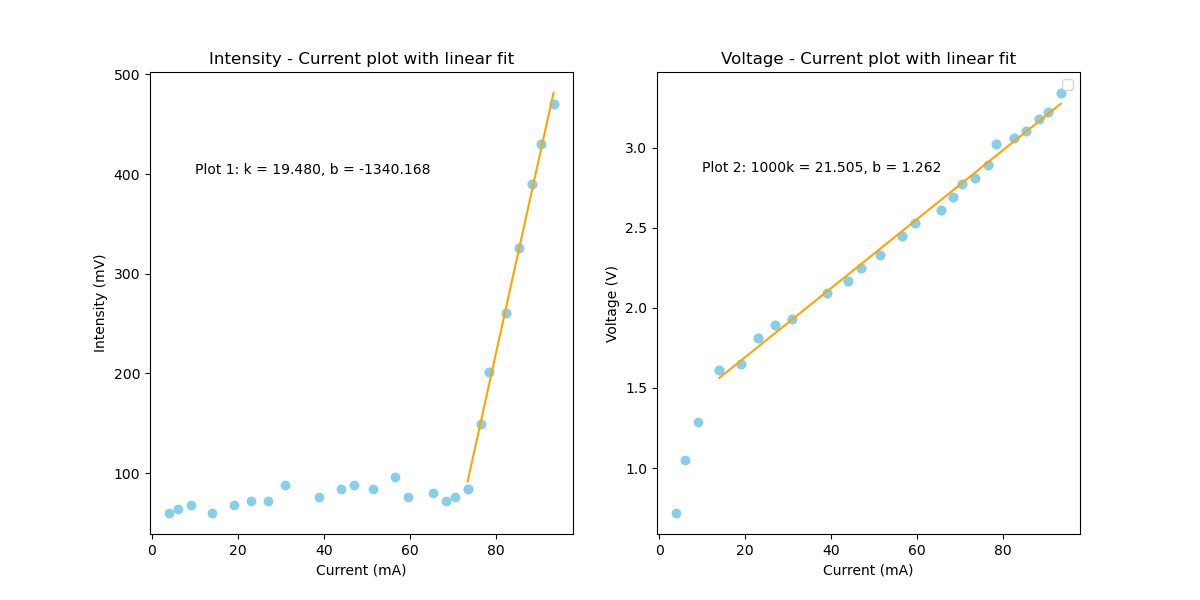
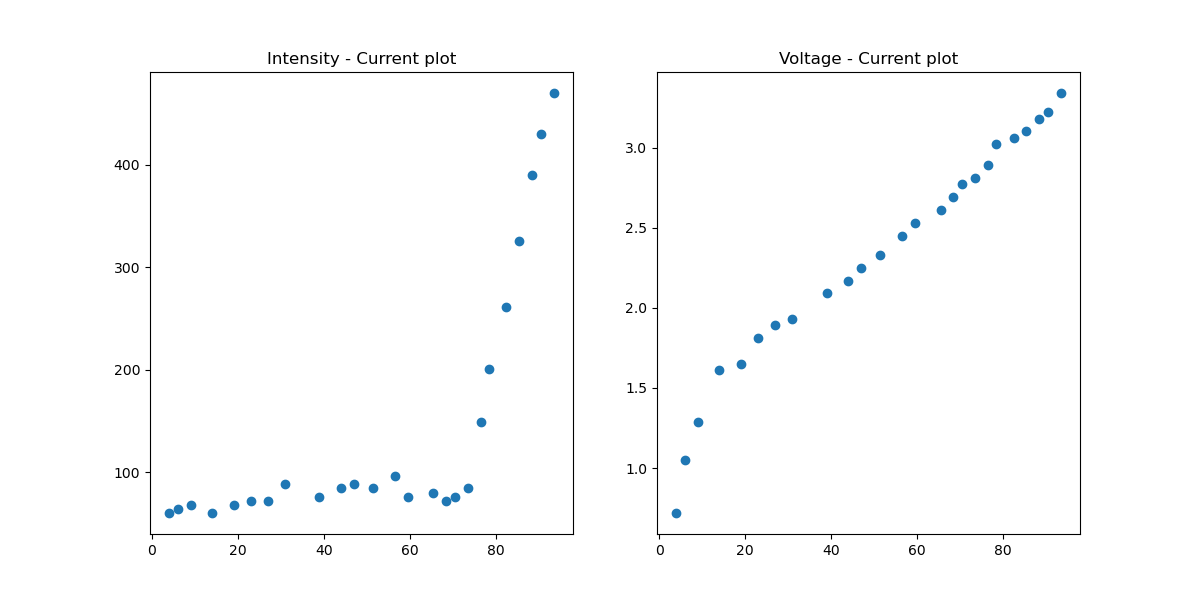
cnm

diff --git a/3B6_lab/3B6_yj375.tex b/3B6_lab/3B6_yj375.tex
@@ -102,7 +102,8 @@ from the equivalent circuit of the laser diode, as shown in Figure \ref{fig:eqcc
 \end{figure}
 
 There is a non-negligible stray series resistance in the laser diode,
-which contributes to the increase in voltage across the laser diode as the current increases.
+which contributes to the linear
+increase in voltage across the laser diode as the current increases.
 
 The relation could be expressed as:
 \begin{equation*}
@@ -114,7 +115,8 @@ respectively. $V_{th}$ is the threshold voltage, and $R_s$ is the stray series r
 
 By the linear fit of the V-I curve, 
 we can determine the threshold voltage and the stray series resistance.
-$V_{th} \approx 1.262 V$, and $R_s \approx 21.505 \Omega$.
+$V_{th} \approx 1.28 V$, and $R_s \approx 21.145 \Omega$, whose error analysis 
+will be carried out later.
 
 From the circuit diagram given, the stray series resistance is 26 $\Omega$,
 which is close to the value obtained from the linear fit, with an error of 
@@ -128,7 +130,7 @@ wavelength of the laser diode $\lambda_0$ by the following equation:
     \lambda_0 = \frac{hc}{eV_{th}}
 \end{equation*}
 
-The value of wavelength is 983.12nm, which is within infrared range.
+The value of wavelength is 968.39nm, which is within infrared range.
 This calculation agrees to the observation during the lab. There was
 no visible light emitted from the laser diode. 
 
@@ -136,9 +138,40 @@ no visible light emitted from the laser diode.
 
 \subsection{Error Analysis}
 
+To carry out error analysis on gradient of intercept of a linear fit,
+a built-in module in python, \texttt{scipy.odr}, is utilized. 
+The measurement is modelled to have a $3\%$ system error and corresponding 
+random error caused by human reading. The total error is assumed to be
+geometric mean of the two error sources. 
 
+The linear fit with error bar is shown in Figure \ref{fig:VI}.
 
+\begin{figure}[h]
+    \centering
+    \includegraphics[width=0.8\textwidth]{VI_fit.png}
+    \caption{V-I linear fit with error analysis}
+    \label{fig:VI}
+\end{figure}
 
+The stary resistance is $1000 \times \text{gradient}$, with value of 
+21.145 $\Omega$, and an error of $\pm 0.3861 \Omega$. It is obvious that
+the real value of the stray resistance is not with in the error range of this 
+linear fit. There might be other non-ideal imperfections that affected the 
+measurement. For example, it could be effect of temperature or extra parasitic effect
+in the circuit.
+
+The intercept corresponds to the threshold voltage of the laser diode. It 
+has a value of 1.2812V with error of $\pm0.0221$V,
+or a percentage error of $\pm1.72\%$. This error would propagate
+to the calculation of wavelength of light emitted.
+
+The wavelength is calculated by $\lambda_0 = \frac{hc}{eV_{th}}$, in 
+which $h$, $c$, $e$ are all constants. The only source of error 
+comes from $V_{th}$, which gives a percentage error of $\pm1.72\%$.
+This is an absolute error of $\pm16.66$nm.
+
+Thus, the stray resistance is measured to be $21.145 \pm 0.3861 \Omega$.
+The wavelength of light emitted is measured to be $968.39 \pm 16.66$nm.
 
 
 \section{Part II: Measurement of laser output spectrum}
@@ -214,26 +247,75 @@ expected to be the same.
 
 The effective refraction index could be calculated as:
 \begin{equation*}
-    n = \frac{\lambda_{center}^2}{2L \Delta \lambda} = 
+    n = \frac{\lambda_{center}^2}{2L \Delta \lambda} = 3.351
 \end{equation*}
-
+by taking $L = 300 \mu m$. This value of refractive index is 
+within the typical range of semiconductor.
 
 \subsection{Error Analysis}
 
+The calculation of refractive index has two sources of error:
+$\Delta \lambda$ and $\lambda_{center}^2$. Thus, the error of refractive 
+index should include both sources:
+\begin{equation*}
+    U_n = \sqrt{(\frac{\partial n}{\partial \Delta \lambda}U_{\Delta \lambda})^2
+            + (\frac{\partial n}{\partial \lambda_{center}^2}U_{\lambda_{center}^2})^2}
+\end{equation*}
+in which $U_x$ is the absolute error of measurement on $x$.
 
+For each reading of wavelength from the spectrum analyzer, there is a
+random error of $U_0$ = 0.00005$\mu$m = 0.05nm. 
 
+By measuring $\Delta \lambda$, two readings were taken to measure width of 
+15 ripples. The error is diluted by a factor of 15:
+$U_{\Delta \lambda} = \frac{2U_0}{15} = 6.67$pm.
 
+The percentage error of $\lambda_{center}^2$ should be twice the percentage 
+error of $\lambda_{center}$. $\%U_{\lambda_{center}} = \frac{0.05\text{nm}}{1.5565\mu\text{m}}$
+= 3.2\text{ppm}.
+The absolute error of $\lambda_{center}^2$ is then 
+$(1.5565\mu m)^2 \times 2 \times 3.2 \text{ppm} = 1.55 \times 10^{-17}$m.
 
+The partial differentials are found by:
+\begin{equation*}
+    \frac{\partial n}{\partial \Delta \lambda} = 
+    -\frac{\lambda_{center}^2}{2L (\Delta \lambda)^2} = -2.78 \times 10^{9}m,
+    \frac{\partial n}{\partial \lambda_{center}^2} =
+    \frac{1}{2L \Delta \lambda} = 1.38 \times 10^{12}m
+\end{equation*}
 
+The total error of refractive index is:
+\begin{equation*}
+    U_n = \sqrt{(2.78 \times 10^9 \times 6.67 \times 10^{-12})^2+
+                (1.38 \times 10^{12} \times 1.55 \times 10^{-17})^2}
+                = 0.0185
+\end{equation*}
 
-
-
-
-
-
+Thus, the measured value of refractive index is $3.351\pm0.0185$.
 
 
 \section{Conclusion}
+
+In this experiment, the electro-optical characteristics of a 
+laser diode were successfully characterized. 
+The Light-Current (L-I) analysis confirmed the transition 
+from spontaneous to stimulated emission. 
+Through linear regression of the V-I characteristics, 
+the threshold voltage and the stray series resistance 
+are determined. 
+Based on the threshold voltage, 
+the bandgap emission wavelength was estimated, 
+confirming operation in the infrared region.
+
+Spectral analysis demonstrated the difference of 
+3dB bandwidth under stimulated conditions compared to spontaneous emission. 
+By analyzing the longitudinal mode spacing, 
+the effective refractive index of the semiconductor material was 
+calculated. 
+
+Overall, the experimental results align well with theoretical 
+expectations for semiconductor laser diodes, 
+accounting for temperature sensitivity and parasitic circuit effects.
 
 \section{Appendix}
 

diff --git a/3B6_lab/plot_data.py b/3B6_lab/plot_data.py
@@ -1,20 +1,27 @@
 import pandas as pd
 import matplotlib.pyplot as plt
 import numpy as np
-from scipy.optimize import curve_fit
-from scipy.odr import ODR, Model, RealData
+import scipy.odr as s_odr
+
 # resistance in TIR used to read current
 R = 20
 
-# read data from excel
-df = pd.read_excel("3B6_lab/3B6 data.xlsx")
-#print(df)
+# random and system error of measurements
+v_ran, i_ran, L_ran = 0.005, 0.25, 0.5   # absolute error in respective units
+v_sys, i_sys, L_sys = 0.03, 0.03, 0.03   # percentage error of 3%
 
-# load data
-v = np.array(df['Voltage Probe Reading (V)'].tolist())
-i = np.array((df['Current Probe Reading (V)']/R*1000).tolist())
-L = np.array(df['Photodiode Probe Reading (mV)'].tolist())
-#print(intensities)
+
+def load_data():
+    # read data from excel
+    df = pd.read_excel("3B6_lab/3B6 data.xlsx")
+    #print(df)
+
+    # load data
+    v = np.array(df['Voltage Probe Reading (V)'].tolist())
+    i = np.array((df['Current Probe Reading (V)']/R*1000).tolist())
+    L = np.array(df['Photodiode Probe Reading (mV)'].tolist())
+    #print(intensities)
+    return v, i, L
 
 def plot_rawdata():
     fig, axs = plt.subplots(1, 2, figsize = (12,6))
@@ -22,31 +29,67 @@ def plot_rawdata():
     axs[0].set_title('Intensity - Current plot')
     axs[1].scatter(i, v)
     axs[1].set_title('Voltage - Current plot')
-    plt.show()
-
+"""
 def linear_func(B, x):
     return B[0] * x + B[1]
-
+"""
 def odr_fit(i,v,L,fit_type):
     plt.figure(figsize=(8, 6))
     if fit_type == 'VI':
         mask = i > 20
         x = i[mask]
         y = v[mask]
+        x_ran, x_sys = i_ran, i_sys
+        y_ran, y_sys = v_ran, v_sys
+        title = 'Linear Fit of Voltage against Current'
         plt.xlabel('Current (mA)')
         plt.ylabel('Voltage (V)')
+        plt.scatter(x,y)
     elif fit_type == 'LI':
-        x = i[8:]
-        y = L[8:]
+        mask = i > 75
+        x = i[mask]
+        y = L[mask]
+        x_ran, x_sys = i_ran, i_sys
+        y_ran, y_sys = L_ran, L_sys
+        title = 'Linear Fit of Light Intensity against Current'
         plt.xlabel('Current (mA)')
         plt.ylabel('Intensity (mV)')
+        plt.scatter(x,y)
     else:
         raise ValueError("Invalid type. Use 'IV' or 'IL'.")
-  
+    
+    sx = np.sqrt(np.power(x_ran, 2) + np.power(x * x_sys, 2))
+    sy = np.sqrt(np.power(y_ran, 2) + np.power(y * y_sys, 2))
+    linear_model = s_odr.Model(lambda p, x: p[0] * x + p[1])
+
+    data = s_odr.RealData(x, y, sx=sx, sy=sy)
+
+    my_odr = s_odr.ODR(data, linear_model, beta0=[1.0, 0.0])
+    output = my_odr.run()
+
+    k, b = output.beta
+    k_err, b_err = output.sd_beta 
+    print(k,k_err,b,b_err)
+    plt.errorbar(x, y, 
+                 xerr=sx, 
+                 yerr=sy, 
+                 fmt='o', 
+                 color='blue', 
+                 ecolor='gray', 
+                 capsize=3, 
+                 label='Measured Data',
+                 markersize=5,
+                 elinewidth=1)
+    x_fit = np.linspace(min(x) - 1, max(x) + 1, 100)
+    y_fit = k * x_fit + b
+    label_str = f'Linear Fit\n$1000k={1000*k:.4f} \pm {1000*k_err:.4f}$\n$b={b:.4f} \pm {b_err:.4f}$'
+    plt.plot(x_fit, y_fit, 'r-', linewidth=1.5, label=label_str)
+    plt.title(title, fontsize=14)
+    plt.legend(loc='best', fontsize=10) 
+    plt.grid(True, linestyle='--', alpha=0.6) #
 
 if __name__ == '__main__':
-    plot_rawdata()
-    print(v)
-    print(i)
+    v, i, L = load_data()
+    #plot_rawdata()
     odr_fit(i,v,L,'VI')
-   
+    plt.show()